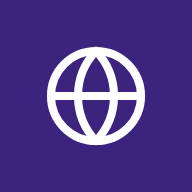
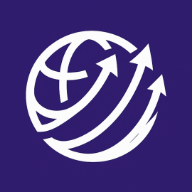
feat: 正式ロゴをアプリのアイコン・画面内ロゴ・SNS投稿画像に適用

Changed region(s): [[0.125, 0.1562, 0.875, 0.875]]

diff --git a/client/src/pages/Welcome.tsx b/client/src/pages/Welcome.tsx
@@ -1,6 +1,6 @@
 import type { ReactNode } from "react";
 import { Link, useLocation } from "wouter";
-import { Camera, Mic, Sparkles, ArrowDown, Globe, Lock, Share2, ShieldCheck, Smartphone } from "lucide-react";
+import { Camera, Mic, Sparkles, ArrowDown, Lock, Share2, ShieldCheck, Smartphone } from "lucide-react";
 import { Button } from "@/components/ui/button";
 import { useAuth } from "@/hooks/useAuth";
 import { track } from "@/lib/track";
@@ -23,7 +23,7 @@ export default function Welcome() {
         <div className="absolute inset-0 bg-gradient-to-b from-black/10 via-black/30 to-black/75" />
         <div className="absolute top-4 left-4 flex items-center gap-2 text-white">
           <div className="w-8 h-8 rounded-xl bg-white/20 backdrop-blur-sm flex items-center justify-center">
-            <Globe className="w-5 h-5" />
+            <img src="/icon-192.png" alt="" className="w-full h-full rounded-[inherit]" />
           </div>
           <span className="text-lg font-bold">GlobeHub</span>
         </div>

diff --git a/client/src/pages/Home.tsx b/client/src/pages/Home.tsx
@@ -1,6 +1,6 @@
 import { Link, useLocation } from "wouter";
 import { useQuery } from "@tanstack/react-query";
-import { Search, MapPin, Camera, Sparkles, Globe, ChevronRight } from "lucide-react";
+import { Search, MapPin, Camera, Sparkles, ChevronRight } from "lucide-react";
 import { Input } from "@/components/ui/input";
 import { LoadingSpinner } from "@/components/common/LoadingSpinner";
 import { EmptyState } from "@/components/common/EmptyState";
@@ -138,7 +138,7 @@ export default function Home() {
         <div className="flex items-center justify-between mb-4">
           <div className="flex items-center gap-2">
             <div className="w-8 h-8 rounded-xl bg-white/20 flex items-center justify-center backdrop-blur-sm">
-              <Globe className="w-5 h-5 text-white" />
+              <img src="/icon-192.png" alt="" className="w-full h-full rounded-[inherit]" />
             </div>
             <span className="text-[22px] font-bold text-white tracking-tight">GlobeHub</span>
           </div>

diff --git a/client/src/pages/mypage/Register.tsx b/client/src/pages/mypage/Register.tsx
@@ -3,7 +3,7 @@ import { Link, useLocation, useSearch } from "wouter";
 import { useForm } from "react-hook-form";
 import { zodResolver } from "@hookform/resolvers/zod";
 import { z } from "zod";
-import { ArrowLeft, Mail, Lock, User, Eye, EyeOff, Globe } from "lucide-react";
+import { ArrowLeft, Mail, Lock, User, Eye, EyeOff } from "lucide-react";
 import { Button } from "@/components/ui/button";
 import { Input } from "@/components/ui/input";
 import { Checkbox } from "@/components/ui/checkbox";
@@ -79,7 +79,7 @@ export default function Register() {
         </Link>
         <div className="flex items-center gap-2 mb-1">
           <div className="w-9 h-9 rounded-xl bg-white/20 flex items-center justify-center">
-            <Globe className="w-5 h-5 text-white" />
+            <img src="/icon-192.png" alt="" className="w-full h-full rounded-[inherit]" />
           </div>
           <span className="text-xl font-bold text-white tracking-tight">GlobeHub</span>
         </div>

diff --git a/scripts/sns-schedule.ts b/scripts/sns-schedule.ts
@@ -24,6 +24,7 @@ async function gql<T = any>(query: string, variables: Record<string, unknown> = 
   return j.data;
 }
 
+const assets = process.argv.find((a) => a.startsWith("--assets="))?.split("=")[1]; // served folder, when images were replaced
 type Post = { id: string; service: Service; dueAt: string; text: string; images: string[] };
 
 function parse(file: string): Post[] {
@@ -51,7 +52,7 @@ function parse(file: string): Post[] {
     posts.push({
       id, service, text,
       dueAt: new Date(`${day}T${TIMES[service]}:00+09:00`).toISOString(),
-      images: files.map((f) => `${SITE}/sns/${folder}/${f}`),
+      images: files.map((f) => `${SITE}/sns/${assets ?? folder}/${f}`),
     });
     i = end;
   }

diff --git a/client/index.html b/client/index.html
@@ -6,7 +6,7 @@
     <meta name="mobile-web-app-capable" content="yes" />
     <meta name="apple-mobile-web-app-capable" content="yes" />
     <meta name="apple-mobile-web-app-status-bar-style" content="default" />
-    <meta name="theme-color" content="#0EA5E9" />
+    <meta name="theme-color" content="#3C237D" />
     <!--ogp-->
     <title>GlobeHub — 撮って、ひとこと話すだけでAI旅行記</title>
     <meta name="description" content="旅先で写真を撮って、ひとこと残すだけ。旅が終わると、AIが旅行記にまとめます。" />

diff --git a/client/src/pages/mypage/MyPage.tsx b/client/src/pages/mypage/MyPage.tsx
@@ -147,7 +147,7 @@ function GuestView() {
         }}
       >
         <div className="w-16 h-16 rounded-2xl bg-white/20 flex items-center justify-center mb-3">
-          <Globe className="w-9 h-9 text-white" />
+          <img src="/icon-192.png" alt="" className="w-full h-full rounded-[inherit]" />
         </div>
         <h1 className="text-xl font-bold text-white">GlobeHub</h1>
         <p className="text-sm text-white/70 mt-1">旅の記録をはじめよう</p>
